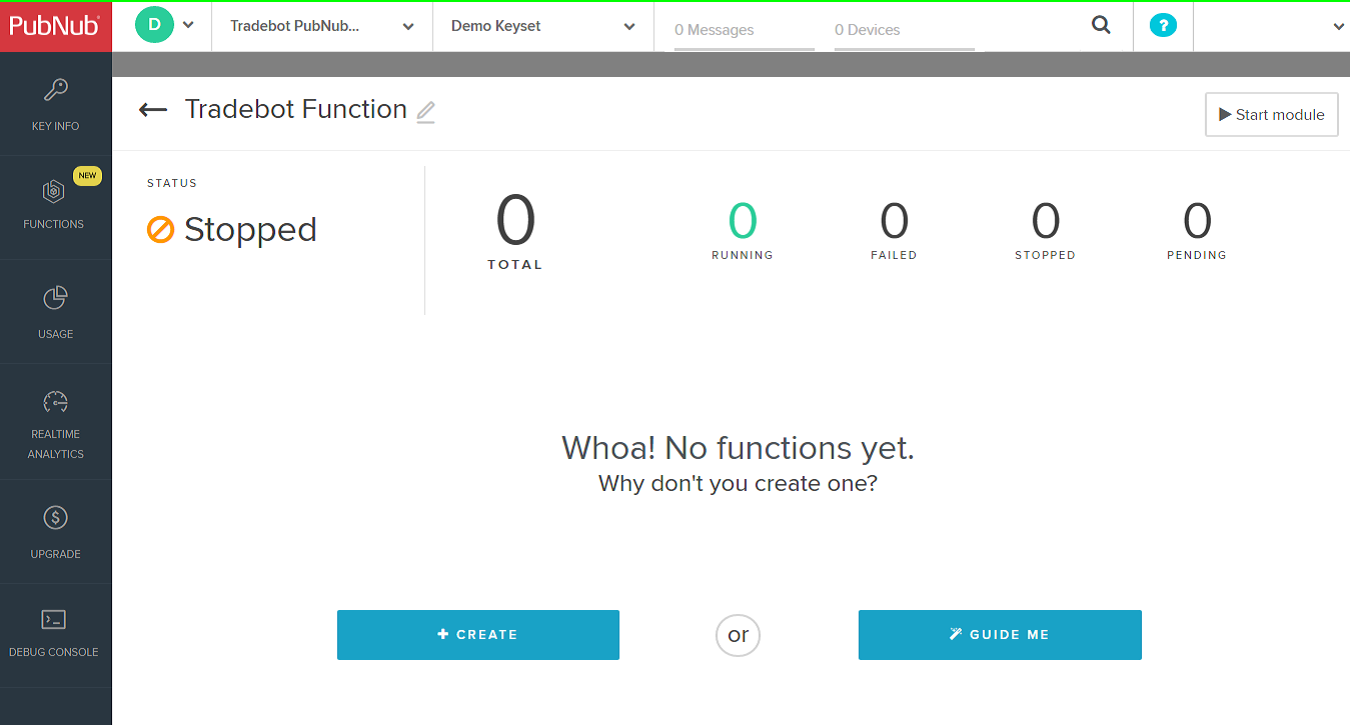
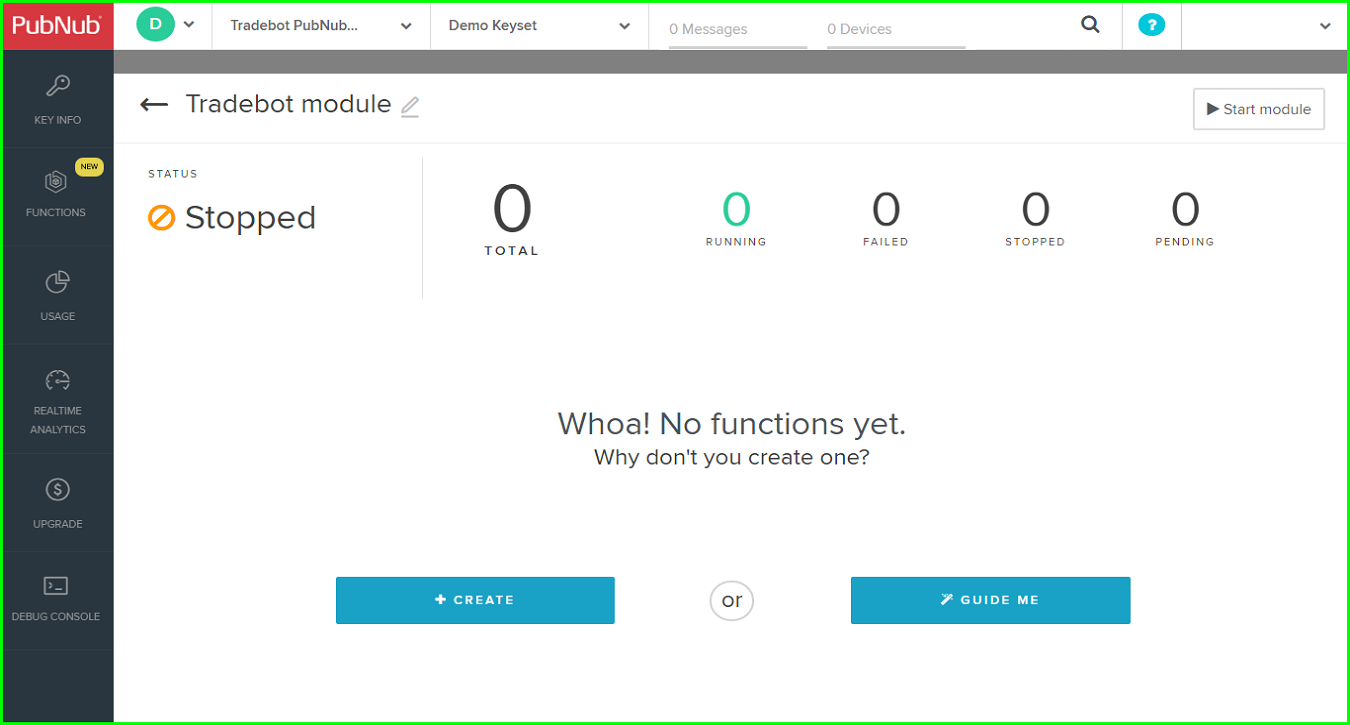
Updated README and changes some screenshots

diff --git a/README.md b/README.md
@@ -1,2 +1,150 @@
-# tradebot-ibmtts
+# Speech Enabled Bot Trading System Powered By IBM Watson 
+
 A demo app for speech enabled trading bot using IBM Watson and PubNub
+
+## Setup
+To run this app, you will need to have your own IBM ID and a developer account on PubNub. Follow the steps below to setup the IBM Text to Speech service and a PubNub function block.
+
+
+### Setup IBM Text to Speech Service
+
+#### Step 1:
+
+Log on to IBM Bluemix with your IBM ID and go to catalog, then select "Text to Speech" under Watson services.
+
+![](screenshots/ibm_tts_1.png)
+
+
+#### Step 2:
+
+Enter a name for the service and the service credential. Leave the field 'Connect to' as 'Leave unbound'.
+
+![](screenshots/ibm_tts_3.png)
+
+Scroll down and select 'Standard pricing plan' and then click on 'Create'.
+
+![](screenshots/ibm_tts_2.png)
+
+
+#### Step 3:
+
+From the service page, go to 'Service credentials' and click on 'View credentials'. It will show a json object with url, username and password for your service.
+The username and password are unique to your service instance created. Make note of these as we will use them later while setting up the PubNub function.
+
+![](screenshots/ibm_tts_4.png)
+
+
+### Setup PubNub Function 
+
+#### Step 4:
+
+Login to PubNub admin portal with your PubNub account.
+
+
+#### Step 5:
+
+From the dashboard, create a new app by clicking on 'CREATE NEW APP +' and give some name to your app.
+
+![](screenshots/pubnub_tts_2.png)
+
+#### Step 6:
+
+Click on your newly created app. A demo keyset is already created for you.
+
+![](screenshots/pubnub_tts_3.png)
+
+Click on the keyset and copy both the publish and subscribe keys. We will need them while running the app.
+
+![](screenshots/pubnub_tts_4.png)
+
+Go to 'FUNCTIONS' (on the left side bar). There are no modules for the newly created app yet.
+
+![](screenshots/pubnub_tts_5.png)
+
+Create a new module by clicking on '+ CREATE MODULE'. Give some name and description for your new module. Leave the keyset as default and click on 'CREATE'.
+
+![](screenshots/pubnub_tts_6.png)
+
+The module is created now.
+
+![](screenshots/pubnub_tts_7.png)
+
+#### Step 7:
+
+Now we will create a function inside this module. Click on the newly created module. There are no functions for this module yet.
+Create a new function by clicking on '+ CREATE'.
+
+![](screenshots/pubnub_tts_8.png)
+
+Give some name to the function.
+Select the event as 'Before Publish or Fire'. This ensures that the text to speech conversion is done before a message is sent to subscriber devices.
+Give the channel name as 'Tradebot_Channel'. 
+
+![](screenshots/pubnub_tts_9.png)
+
+The newly created function will have some default code.
+![](screenshots/pubnub_tts_10.png)
+
+#### Step 8:
+
+Replace the default code with contents of the ![PubNub Function code](pubnub/pubnub_function.js)
+
+#### Step 9:
+
+On lines 10 and 11 of this function code, replace the username and password with your IBM Text to Speech service credentials.
+Click on 'SAVE' (on left side) and then click on 'Start module' to start running the function.
+
+![](screenshots/pubnub_tts_11.png)
+
+#### Step 10:
+
+The newly create function is now running as you can see in the log messages.
+
+![](screenshots/pubnub_tts_12.png)
+
+### Running the app
+
+We have created IBM Text to Speech service instance and also deployed a PubNub function for accessing the service. Now let's go ahead and run our Tradebot app.
+Before you run the code, make sure you have [Node.js](https://nodejs.org/en/) installed on your computer. 
+
+#### Step 11:
+
+Clone or download this github repo.
+
+#### Step 12:
+
+Install required modules.
+
+```npm install```
+
+#### Step 13:
+Configure your local environment
+Create a text file in the 'app' folder and name it as ‘.env’. Populate the file with your PubNub keys and chanel name as shown below.
+Replace the PubNub keys with the publish and subscribe keys obtained in step 6 above.
+```
+PUB_NUB_CHANNEL_KEY = 'Tradebot_Channel'
+PUB_NUB_PUBLISH_KEY= 'YOUR_PUBNUB_PUBLISH_KEY'
+PUB_NUB_SUBSCRIBE_KEY = 'YOUR_PUBNUB_SUBSCRIBE_KEY'
+```
+Note that we had used channel name as 'Tradebot_Channel' earlier while creating PubNub function. The same name should appear in this file. Channel names are case sensitive.
+
+#### Step 14:
+
+Run the script tradebot.js first to subscribe to PubNub messages.
+```
+node tradebot.js
+```
+It should output a message indicating that it has subscribed to the required channel.
+
+#### Step 15:
+In another terminal window run the stock simulating script.
+ ```
+ node stockexchange.js
+ ```
+
+The other script tradebot.js will now receive and playback a welcome audio message.
+
+Wait for a while and you will see the stock prices getting changed. Once a stock price moves beyond threshold, you should hear corresponding speech message from the trading bot script. Note that since the price movement is random, you may have to wait a while before a stock crosses some threshold.
+
+
+If you are interested in knowing how the app works or how to customize the app, the [README](app/README.md) file in app folder has more details.
